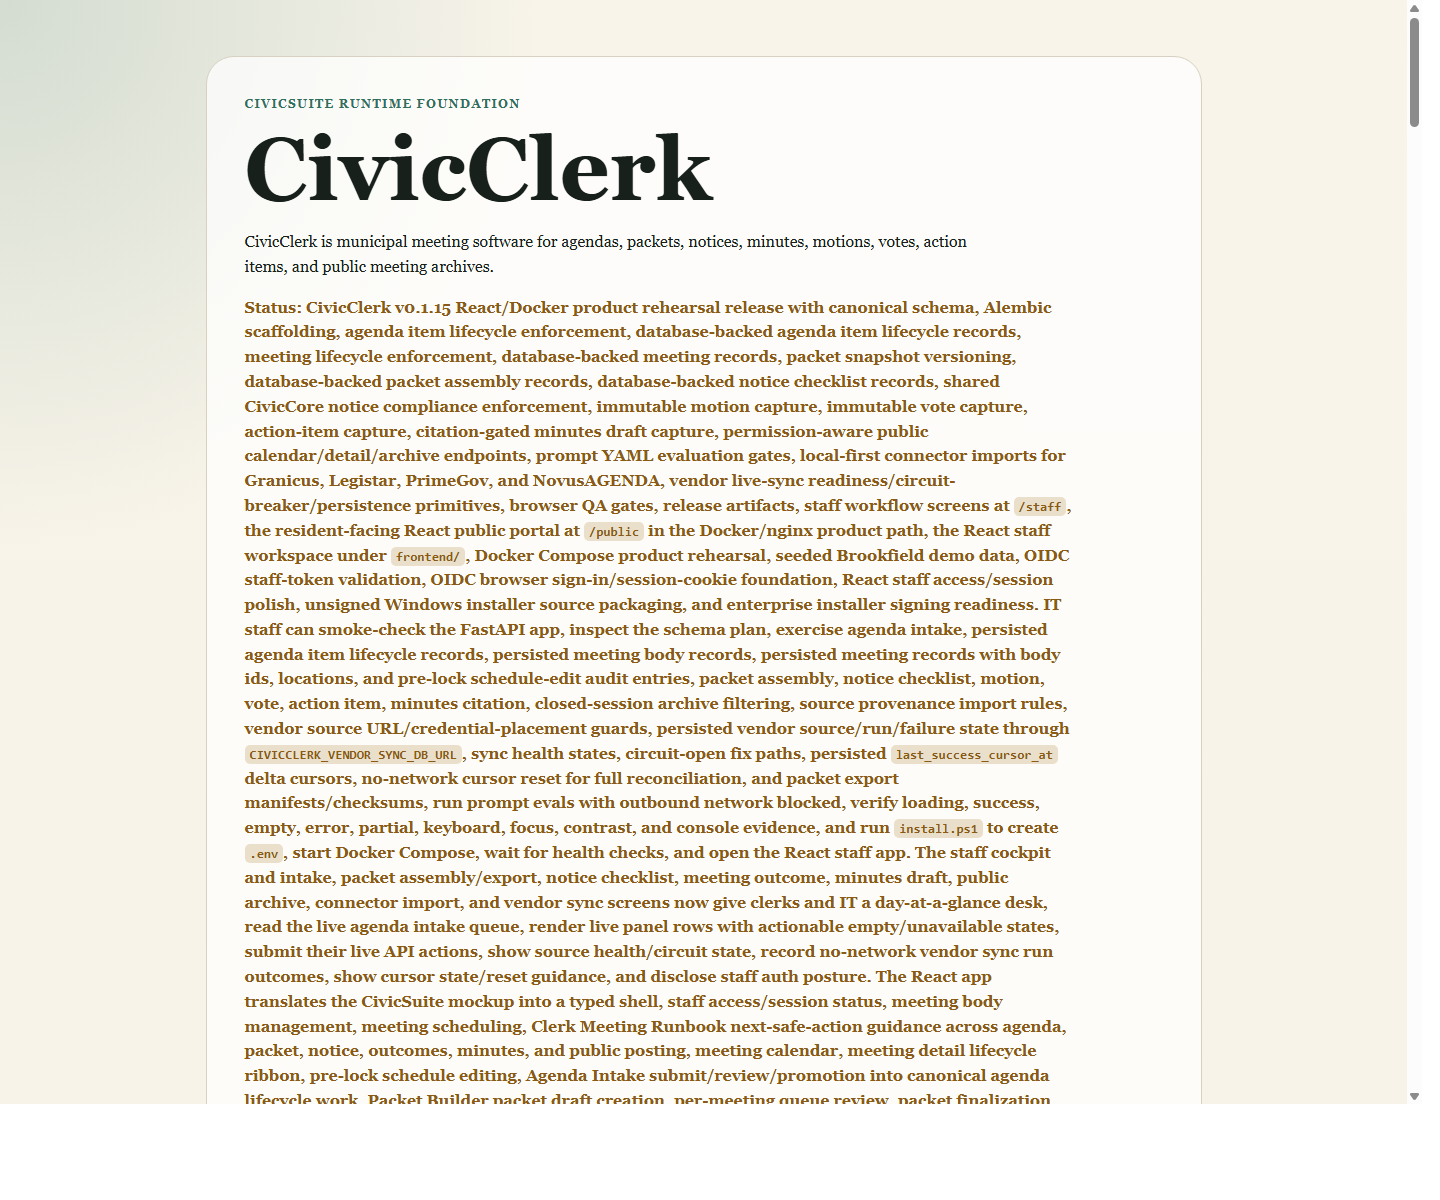
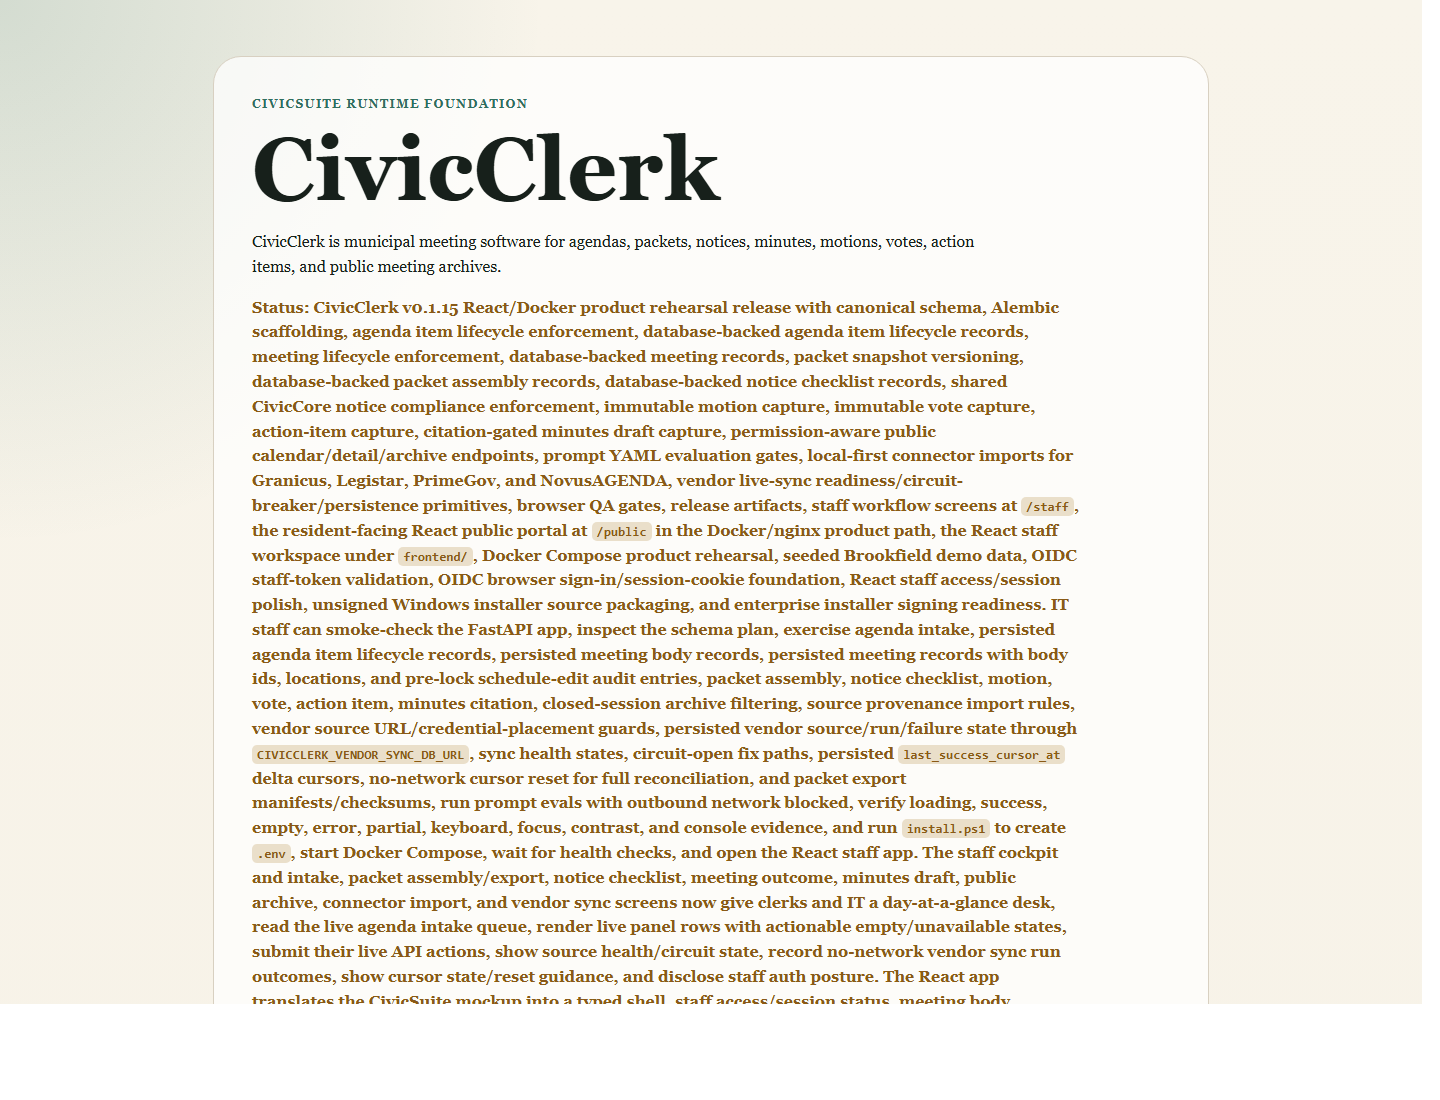
docs: clarify production readiness gaps

Changed region(s): [[0.125, 0.0309, 0.75, 0.9273], [0.9688, 0.0, 1.0, 0.0927]]

diff --git a/docs/index.html b/docs/index.html
@@ -51,7 +51,7 @@
       <div class="eyebrow">CivicSuite runtime foundation</div>
       <h1>CivicClerk</h1>
       <p>CivicClerk is municipal meeting software for agendas, packets, notices, minutes, motions, votes, action items, and public meeting archives.</p>
-<p class="status">Status: CivicClerk v0.1.15 React/Docker product rehearsal release with canonical schema, Alembic scaffolding, agenda item lifecycle enforcement, database-backed agenda item lifecycle records, meeting lifecycle enforcement, database-backed meeting records, packet snapshot versioning, database-backed packet assembly records, database-backed notice checklist records, shared CivicCore notice compliance enforcement, immutable motion capture, immutable vote capture, action-item capture, citation-gated minutes draft capture, permission-aware public calendar/detail/archive endpoints, prompt YAML evaluation gates, local-first connector imports for Granicus, Legistar, PrimeGov, and NovusAGENDA, vendor live-sync readiness/circuit-breaker/persistence primitives, browser QA gates, release artifacts, staff workflow screens at <code>/staff</code>, the resident-facing React public portal at <code>/public</code> in the Docker/nginx product path, the React staff workspace under <code>frontend/</code>, Docker Compose product rehearsal, seeded Brookfield demo data, OIDC staff-token validation, OIDC browser sign-in/session-cookie foundation, React staff access/session polish, unsigned Windows installer source packaging, and enterprise installer signing readiness. IT staff can smoke-check the FastAPI app, inspect the schema plan, exercise agenda intake, persisted agenda item lifecycle records, persisted meeting body records, persisted meeting records with body ids, locations, and pre-lock schedule-edit audit entries, packet assembly, notice checklist, motion, vote, action item, minutes citation, closed-session archive filtering, source provenance import rules, vendor source URL/credential-placement guards, persisted vendor source/run/failure state through <code>CIVICCLERK_VENDOR_SYNC_DB_URL</code>, sync health states, circuit-open fix paths, persisted <code>last_success_cursor_at</code> delta cursors, no-network cursor reset for full reconciliation, and packet export manifests/checksums, run prompt evals with outbound network blocked, verify loading, success, empty, error, partial, keyboard, focus, contrast, and console evidence, and run <code>install.ps1</code> to create <code>.env</code>, start Docker Compose, wait for health checks, and open the React staff app. The staff cockpit and intake, packet assembly/export, notice checklist, meeting outcome, minutes draft, public archive, connector import, and vendor sync screens now give clerks and IT a day-at-a-glance desk, read the live agenda intake queue, render live panel rows with actionable empty/unavailable states, submit their live API actions, show source health/circuit state, record no-network vendor sync run outcomes, show cursor state/reset guidance, and disclose staff auth posture. The React app translates the CivicSuite mockup into a typed shell, staff access/session status, meeting body management, meeting scheduling, Clerk Meeting Runbook next-safe-action guidance across agenda, packet, notice, outcomes, minutes, and public posting, meeting calendar, meeting detail lifecycle ribbon, pre-lock schedule editing, Agenda Intake submit/review/promotion into canonical agenda lifecycle work, Packet Builder packet draft creation, per-meeting queue review, packet finalization, Notice Checklist statutory deadline review, Official Notice Record proof summary, legal readiness proof chain, basis/approval capture, posting-proof attachment, legal-blocker copy, immutable audit-hash evidence, resident-oriented Public Posting list/detail/archive search with official agenda, packet, approved-minutes sections and restricted-record non-disclosure guidance, Meeting Outcomes motion/vote/action capture with append-only correction guidance, Minutes Draft source-material entry, sentence-level citation capture, prompt/model provenance, human approver capture, blocked auto-posting visibility, Vendor Sync source-health/circuit-breaker/cursor visibility with full reconciliation reset, audit/evidence drawer, required QA states, and live <code>/api/meetings</code>, <code>/api/meeting-bodies</code>, <code>/api/agenda-intake</code>, <code>/api/meetings/{id}/packet-assemblies</code>, <code>/api/packet-assemblies/{id}/finalize</code>, <code>/api/meetings/{id}/notice-checklists</code>, <code>/api/notice-checklists/{id}/posting-proof</code>, <code>/api/meetings/{id}/motions</code>, <code>/api/motions/{id}/votes</code>, <code>/api/meetings/{id}/action-items</code>, <code>/api/meetings/{id}/minutes/drafts</code>, <code>/api/minutes/{id}/post</code>, <code>/api/public/meetings</code>, <code>/api/public/archive/search</code>, <code>/api/vendor-live-sync/sources</code>, and <code>/api/vendor-live-sync/sources/{id}/cursor-reset</code> loading. The nginx product routes <code>/staff</code> and <code>/public</code> now open the React staff dashboard and public portal directly while workflow API calls stay behind <code>/api/...</code> and exact staff auth contracts stay proxied to the backend. Docker/PostgreSQL backup and restore rehearsal now uses <code>pg_dump</code> and <code>pg_restore</code> against a temporary restore database without overwriting source data. OIDC browser sign-in now starts at <code>/staff/login</code> with authorization-code + PKCE parameters, returns through <code>/staff/oidc/callback</code>, and stores a signed HttpOnly CivicClerk staff session cookie instead of the raw OIDC token. Scheduled local connector export-drop ingestion is now available through Celery Beat for approved JSON files without vendor network calls, and <code>scripts/check_vendor_live_sync_readiness.py</code> plus <code>/vendor-live-sync/sources</code> now preview, persist, and surface the vendor live-sync source/run health contract without contacting vendors. The guarded vendor-network runner and disabled-by-default Celery Beat schedule can now pull configured approved source IDs only after IT enables both live-sync gates and credentials; reports show <code>delta_request_url</code>, <code>cursor_param</code>, <code>cursor_value</code>, and <code>cursor_advanced_at</code>, failed or partial pulls leave the cursor unchanged, and operators can clear or move the cursor locally before a controlled reconciliation pull while preserving the reason as a <code>cursor_reset</code> run-log event. Remaining production gaps are actual signed installer publication, municipal vendor API deployment proof, and deployment hardening. The <code>/staff/auth-readiness</code> contract tells operators whether OIDC token validation, OIDC browser login, bearer-token, or trusted-header staff auth is deployment-ready and includes protected smoke probes plus loopback-only proxy rehearsal guidance.</p>
+<p class="status">Status: CivicClerk v0.1.15 React/Docker product rehearsal release with canonical schema, Alembic scaffolding, agenda item lifecycle enforcement, database-backed agenda item lifecycle records, meeting lifecycle enforcement, database-backed meeting records, packet snapshot versioning, database-backed packet assembly records, database-backed notice checklist records, shared CivicCore notice compliance enforcement, immutable motion capture, immutable vote capture, action-item capture, citation-gated minutes draft capture, permission-aware public calendar/detail/archive endpoints, prompt YAML evaluation gates, local-first connector imports for Granicus, Legistar, PrimeGov, and NovusAGENDA, vendor live-sync readiness/circuit-breaker/persistence primitives, browser QA gates, release artifacts, staff workflow screens at <code>/staff</code>, the resident-facing React public portal at <code>/public</code> in the Docker/nginx product path, the React staff workspace under <code>frontend/</code>, Docker Compose product rehearsal, seeded Brookfield demo data, OIDC staff-token validation, OIDC browser sign-in/session-cookie foundation, React staff access/session polish, unsigned Windows installer source packaging, and enterprise installer signing readiness. IT staff can smoke-check the FastAPI app, inspect the schema plan, exercise agenda intake, persisted agenda item lifecycle records, persisted meeting body records, persisted meeting records with body ids, locations, and pre-lock schedule-edit audit entries, packet assembly, notice checklist, motion, vote, action item, minutes citation, closed-session archive filtering, source provenance import rules, vendor source URL/credential-placement guards, persisted vendor source/run/failure state through <code>CIVICCLERK_VENDOR_SYNC_DB_URL</code>, sync health states, circuit-open fix paths, persisted <code>last_success_cursor_at</code> delta cursors, no-network cursor reset for full reconciliation, and packet export manifests/checksums, run prompt evals with outbound network blocked, verify loading, success, empty, error, partial, keyboard, focus, contrast, and console evidence, and run <code>install.ps1</code> to create <code>.env</code>, start Docker Compose, wait for health checks, and open the React staff app. The staff cockpit and intake, packet assembly/export, notice checklist, meeting outcome, minutes draft, public archive, connector import, and vendor sync screens now give clerks and IT a day-at-a-glance desk, read the live agenda intake queue, render live panel rows with actionable empty/unavailable states, submit their live API actions, show source health/circuit state, record no-network vendor sync run outcomes, show cursor state/reset guidance, and disclose staff auth posture. The React app translates the CivicSuite mockup into a typed shell, staff access/session status, meeting body management, meeting scheduling, Clerk Meeting Runbook next-safe-action guidance across agenda, packet, notice, outcomes, minutes, and public posting, meeting calendar, meeting detail lifecycle ribbon, pre-lock schedule editing, Agenda Intake submit/review/promotion into canonical agenda lifecycle work, Packet Builder packet draft creation, per-meeting queue review, packet finalization, Notice Checklist statutory deadline review, Official Notice Record proof summary, legal readiness proof chain, basis/approval capture, posting-proof attachment, legal-blocker copy, immutable audit-hash evidence, resident-oriented Public Posting list/detail/archive search with official agenda, packet, approved-minutes sections and restricted-record non-disclosure guidance, Meeting Outcomes motion/vote/action capture with append-only correction guidance, Minutes Draft source-material entry, sentence-level citation capture, prompt/model provenance, human approver capture, blocked auto-posting visibility, Vendor Sync source-health/circuit-breaker/cursor visibility with full reconciliation reset, audit/evidence drawer, required QA states, and live <code>/api/meetings</code>, <code>/api/meeting-bodies</code>, <code>/api/agenda-intake</code>, <code>/api/meetings/{id}/packet-assemblies</code>, <code>/api/packet-assemblies/{id}/finalize</code>, <code>/api/meetings/{id}/notice-checklists</code>, <code>/api/notice-checklists/{id}/posting-proof</code>, <code>/api/meetings/{id}/motions</code>, <code>/api/motions/{id}/votes</code>, <code>/api/meetings/{id}/action-items</code>, <code>/api/meetings/{id}/minutes/drafts</code>, <code>/api/minutes/{id}/post</code>, <code>/api/public/meetings</code>, <code>/api/public/archive/search</code>, <code>/api/vendor-live-sync/sources</code>, and <code>/api/vendor-live-sync/sources/{id}/cursor-reset</code> loading. The nginx product routes <code>/staff</code> and <code>/public</code> now open the React staff dashboard and public portal directly while workflow API calls stay behind <code>/api/...</code> and exact staff auth contracts stay proxied to the backend. Docker/PostgreSQL backup and restore rehearsal now uses <code>pg_dump</code> and <code>pg_restore</code> against a temporary restore database without overwriting source data. OIDC browser sign-in now starts at <code>/staff/login</code> with authorization-code + PKCE parameters, returns through <code>/staff/oidc/callback</code>, and stores a signed HttpOnly CivicClerk staff session cookie instead of the raw OIDC token. Scheduled local connector export-drop ingestion is now available through Celery Beat for approved JSON files without vendor network calls, and <code>scripts/check_vendor_live_sync_readiness.py</code> plus <code>/vendor-live-sync/sources</code> now preview, persist, and surface the vendor live-sync source/run health contract without contacting vendors. The guarded vendor-network runner and disabled-by-default Celery Beat schedule can now pull configured approved source IDs only after IT enables both live-sync gates and credentials; reports show <code>delta_request_url</code>, <code>cursor_param</code>, <code>cursor_value</code>, and <code>cursor_advanced_at</code>, failed or partial pulls leave the cursor unchanged, and operators can clear or move the cursor locally before a controlled reconciliation pull while preserving the reason as a <code>cursor_reset</code> run-log event. Remaining production gaps are municipal IdP deployment proof, real vendor API deployment proof, city-approved retention/off-host backup proof, and deployment hardening; signed installer publication is certificate-gated and not expected during the developer process. The <code>/staff/auth-readiness</code> contract tells operators whether OIDC token validation, OIDC browser login, bearer-token, or trusted-header staff auth is deployment-ready and includes protected smoke probes plus loopback-only proxy rehearsal guidance.</p>
     </section>
 
     <section class="grid" aria-label="Product overview">

diff --git a/README.md b/README.md
@@ -274,15 +274,16 @@ Shipped in this foundation:
 Not shipped yet:
 
 - signed/enterprise installer release artifact
-- actual signed installer publication still requires an enterprise
-  code-signing certificate and timestamp authority
+- signed installer publication is certificate-gated and not expected during the
+  developer process; unsigned installer warnings remain the supported path until
+  an enterprise code-signing certificate and timestamp authority are available
 - connector-specific vendor delta adapters and deployment proof for municipal
   Granicus/Legistar/PrimeGov/NovusAGENDA live APIs beyond the guarded
   scheduled pull foundation
 
 ## New user experience today
 
-A new user can inspect and run the foundation, open staff workflow screens at `/staff`, open the resident-facing React public portal at `/public` in the Docker/nginx product path, inspect the React staff workspace in `frontend/`, see the current staff access mode and municipal SSO session status directly on the React dashboard, use the React dashboard Meeting Runbook to see the next safe end-to-end meeting action, create and maintain meeting bodies through the React dashboard and `/api/meeting-bodies`, schedule meetings through the React dashboard, load live meetings into the React dashboard/calendar/detail flow through `/api/meetings`, edit pre-lock meeting schedule fields through the React meeting detail view and `PATCH /api/meetings/{id}`, submit agenda intake items into a database-backed queue from the browser, record clerk readiness review from the browser, promote ready intake work into agenda lifecycle records, create/finalize packet assembly records from the React Packet Builder, run the React Notice Checklist with statutory deadline, Official Notice Record proof summary, basis, approval, posting-proof, legal-blocker, and audit-hash visibility, inspect the React Public Posting view over resident-safe agenda, packet, minutes, and archive search records, capture immutable motions, roll-call votes, and source-linked action items from the React Meeting Outcomes workspace, create citation-gated minutes drafts with source material, sentence citations, prompt provenance, human approver, and blocked auto-posting visibility from the React Minutes workspace, inspect the React Vendor Sync workspace for source health/circuit status and no-network run logging, persist notice checklist/posting-proof records from the browser, create citation-gated minutes drafts from the browser, publish public-safe archive records from the browser, normalize local connector exports from the browser or through scheduled local Docker import drops, persist vendor sync source/run health through `CIVICCLERK_VENDOR_SYNC_DB_URL`, persist agenda item lifecycle records through `CIVICCLERK_AGENDA_ITEM_DB_URL`, persist meeting records and lifecycle audit entries through `CIVICCLERK_MEETING_DB_URL`, create draft agenda items and meetings through the API, and generate a records-ready packet export bundle with manifest, checksums, provenance, and audit evidence. The Docker profile is now usable as an end-to-end local product rehearsal or pilot-grade demo with seeded Brookfield data, including a PostgreSQL-native backup/restore rehearsal, OIDC staff-token validation, OIDC browser sign-in/session-cookie foundation, React sign-in/session status polish, optional scheduled local connector export-drop ingestion, and staff-visible vendor sync ledger health; production municipal deployment still needs code signing, city-approved retention/off-host backup operations, and vendor-network live-sync hardening. The correct next experience is:
+A new user can inspect and run the foundation, open staff workflow screens at `/staff`, open the resident-facing React public portal at `/public` in the Docker/nginx product path, inspect the React staff workspace in `frontend/`, see the current staff access mode and municipal SSO session status directly on the React dashboard, use the React dashboard Meeting Runbook to see the next safe end-to-end meeting action, create and maintain meeting bodies through the React dashboard and `/api/meeting-bodies`, schedule meetings through the React dashboard, load live meetings into the React dashboard/calendar/detail flow through `/api/meetings`, edit pre-lock meeting schedule fields through the React meeting detail view and `PATCH /api/meetings/{id}`, submit agenda intake items into a database-backed queue from the browser, record clerk readiness review from the browser, promote ready intake work into agenda lifecycle records, create/finalize packet assembly records from the React Packet Builder, run the React Notice Checklist with statutory deadline, Official Notice Record proof summary, basis, approval, posting-proof, legal-blocker, and audit-hash visibility, inspect the React Public Posting view over resident-safe agenda, packet, minutes, and archive search records, capture immutable motions, roll-call votes, and source-linked action items from the React Meeting Outcomes workspace, create citation-gated minutes drafts with source material, sentence citations, prompt provenance, human approver, and blocked auto-posting visibility from the React Minutes workspace, inspect the React Vendor Sync workspace for source health/circuit status and no-network run logging, persist notice checklist/posting-proof records from the browser, create citation-gated minutes drafts from the browser, publish public-safe archive records from the browser, normalize local connector exports from the browser or through scheduled local Docker import drops, persist vendor sync source/run health through `CIVICCLERK_VENDOR_SYNC_DB_URL`, persist agenda item lifecycle records through `CIVICCLERK_AGENDA_ITEM_DB_URL`, persist meeting records and lifecycle audit entries through `CIVICCLERK_MEETING_DB_URL`, create draft agenda items and meetings through the API, and generate a records-ready packet export bundle with manifest, checksums, provenance, and audit evidence. The Docker profile is now usable as an end-to-end local product rehearsal or pilot-grade demo with seeded Brookfield data, including a PostgreSQL-native backup/restore rehearsal, OIDC staff-token validation, OIDC browser sign-in/session-cookie foundation, React sign-in/session status polish, optional scheduled local connector export-drop ingestion, and staff-visible vendor sync ledger health; production municipal deployment still needs city-approved retention/off-host backup operations, municipal IdP proof, and real vendor API deployment proof, while unsigned installer warnings remain expected until a certificate-backed signing path exists. The correct next experience is:
 
 1. Read this README.
 2. Read `USER-MANUAL.md`.
@@ -352,7 +353,7 @@ A new user can inspect and run the foundation, open staff workflow screens at `/
 16. For the React staff workspace slice, run the frontend package from
    `frontend/` with `npm ci`, `npm audit --audit-level=moderate`,
    `npm run dev`, `npm run test`, and `npm run build`.
-17. Follow GitHub issues and discussions as vendor-network live sync, signed installer work, city-approved backup retention/off-host storage, and deployment hardening land.
+17. Follow GitHub issues and discussions as municipal IdP proof, real vendor API deployment proof, city-approved backup retention/off-host storage, and deployment hardening land.
 
 ## Architecture direction
 

diff --git a/docs/roadmap/mvp-plan.md b/docs/roadmap/mvp-plan.md
@@ -48,8 +48,10 @@ installer source packaging is now present for the same Docker stack, including
 install/repair and daily-start launchers, and the enterprise signing-readiness
 contract now verifies SignTool, certificate identity, timestamp URL, and setup
 artifact inputs without printing secrets. Remaining MVP work now centers on
-actual signed installer publication, municipal IdP deployment proof,
-vendor-network live sync, and deployment hardening. The Docker/PostgreSQL backup and restore
+municipal IdP deployment proof, real vendor API deployment proof,
+city-approved retention/off-host backup proof, and deployment hardening. Signed
+installer publication is certificate-gated and not expected during the
+developer process. The Docker/PostgreSQL backup and restore
 rehearsal for the Compose product path is now present; real deployments still
 need an approved retention schedule and off-host storage target. The connector
 path now has a local import-sync runner that produces normalized ledgers from
